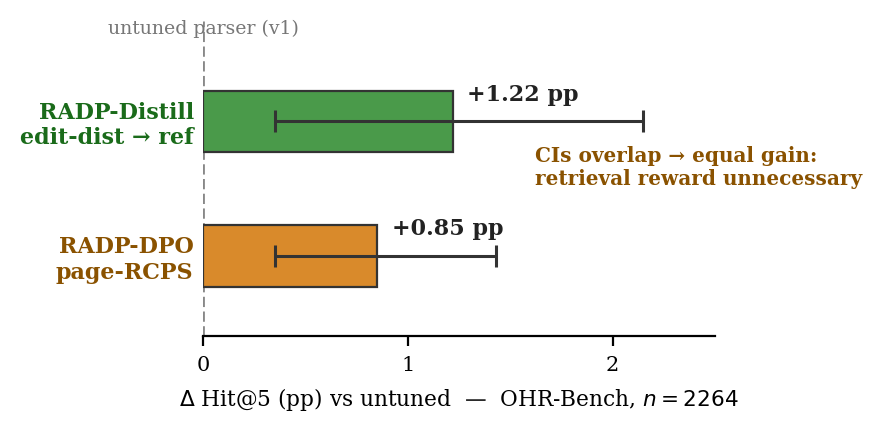
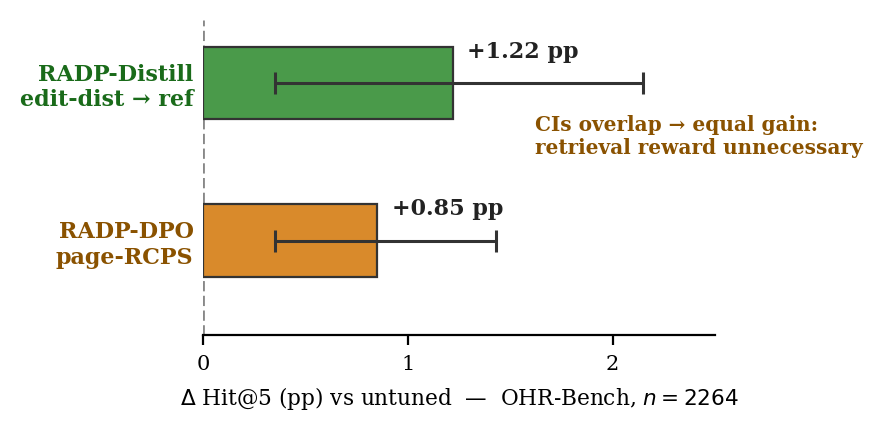
paper: fix orphan figure refs + define TextNED; drop 'v1' label from C4 fig
- ref Figure 2 (coverage) and Figure 5 (training) in body prose (were
  floating unreferenced)
- gloss TextNED at first body use (was defined only in Appendix C)
- generalise '(RADP-DPO)' -> 'discrete-output preference training' so the
  RADP-Distill headline is not undersold one paragraph later
- remove redundant 'untuned parser (v1)' label from fig_c4_training (x-axis
  already says 'vs untuned'; drops the anonymity-leaking v1); regenerate fig

diff --git a/paper/latex/main.tex b/paper/latex/main.tex
@@ -102,7 +102,7 @@ A single-domain anti-correlation could be a quirk of one language or document ty
 
 The aggregate cross-variant correlation is sensitive to the document mix: Pearson BC$\leftrightarrow$\rcps{} across all 15 variants is $-0.35$ on Law\,$+$\,Manual alone but $+0.25$ on the full seven-domain corpus. We therefore report the per-family mechanism, which reproduces in every domain, as the robust finding, and treat the cross-variant scalar---which conflates parser families of differing noise-robustness---as illustrative only.
 
-\paragraph{Locating the gap: parser or chunker? (Table~\ref{tab:coverage}).} The disconnect shows that intrinsic metrics mislead, but not which pipeline layer is at fault. Applying the \S\ref{sec:coverage} classification with no retriever, on Prod's output (294 pages, 663 Q--A) $20.2\%$ of answers are absent and at most $2.3\%$ are split, and the absent rate is constant across all eight chunkers we test---exactly the boundary-independence a parser fault must show. The gap is therefore a parser problem: roughly one answer in five is never produced, so no re-chunking can recover it, and a parser-side intervention is the correct lever. This both motivates the training in \S\ref{sec:c4} and yields the practitioner rule: run this diagnostic first, and if absent dominates, fix the parser; if split dominates, fix the chunker.
+\paragraph{Locating the gap: parser or chunker? (Figure~\ref{fig:coverage}, Table~\ref{tab:coverage}).} The disconnect shows that intrinsic metrics mislead, but not which pipeline layer is at fault. Applying the \S\ref{sec:coverage} classification with no retriever, on Prod's output (294 pages, 663 Q--A) $20.2\%$ of answers are absent and at most $2.3\%$ are split, and the absent rate is constant across all eight chunkers we test---exactly the boundary-independence a parser fault must show. The gap is therefore a parser problem: roughly one answer in five is never produced, so no re-chunking can recover it, and a parser-side intervention is the correct lever. This both motivates the training in \S\ref{sec:c4} and yields the practitioner rule: run this diagnostic first, and if absent dominates, fix the parser; if split dominates, fix the chunker.
 
 \begin{table}[t]
 \centering\small
@@ -156,9 +156,9 @@ full \rcps{} (3 retrievers, fmt-invariant) & 30B $\succ$ Prod & --- \\
 
 When the coverage diagnostic points to the parser (\S\ref{sec:c1c2}), we train it on a retrieval signal---a family we call Retrieval-Aware Document Parsing (RADP)---in two natural ways. \textbf{(a) Hidden-state auxiliary loss (RADP-aux):} an InfoNCE term aligns the parser's pooled answer-span hidden state with the frozen BGE-M3 embedding of the gold chunk ($\mathcal{L}_\text{total} = \mathcal{L}_\text{parse} + \lambda\,\mathcal{L}_\text{contrast}$); this differentiable surrogate reaches the deployed markdown only through $\mathcal{L}_\text{parse}$. \textbf{(b) Discrete-output DPO (RADP-DPO):} we optimise the markdown directly \citep{rafailov2023dpo}---sampling $K$ parses per page, scoring each by a page-local \rcps{}, forming preference pairs (gap $\ge 5$~pp), and training with a LoRA-toggle reference \citep{hu2021lora} ($\pi_\theta$ adapter-on, $\pi_\text{ref}$ adapter-off), the reward sharpened over three milestones R1$\rightarrow$R2$\rightarrow$R3 (Appendix~\ref{app:milestones}); reference-free SimPO \citep{meng2024simpo} is a control. \textbf{(c) Reward-agnostic control (RADP-Distill):} the identical best-of-K pipeline but ranking candidates by edit-distance to the reference markdown instead of \rcps{}.
 
-With one answer in five absent from the parser (\S\ref{sec:c1c2}), a parser-side fix is the right lever. Of these directions, only discrete-output preference training (RADP-DPO) produces a deployable effect---the hidden-state auxiliary loss is sub-threshold and reference-free SimPO is uniformly negative (Appendix~\ref{app:dpo}). On KoGov, RADP-DPO improves Hit@5 by $+1.96$ to $+2.11$~pp, but at $n = 663$ every two-sided interval spans zero, so we treat KoGov as exploratory and rely on the pre-specified OHR-Bench replication, where training signal, metric, and language are disjoint. There the representative variant R2 gives Hit@5 $+0.85$~pp $[+0.35, +1.43]$, two-sided significant across all seven domains (Table~\ref{tab:ohr}).
+With one answer in five absent from the parser (\S\ref{sec:c1c2}), a parser-side fix is the right lever. Of these directions, only discrete-output preference training produces a deployable effect---the hidden-state auxiliary loss is sub-threshold and reference-free SimPO is uniformly negative (Appendix~\ref{app:dpo}). On KoGov, RADP-DPO improves Hit@5 by $+1.96$ to $+2.11$~pp, but at $n = 663$ every two-sided interval spans zero, so we treat KoGov as exploratory and rely on the pre-specified OHR-Bench replication, where training signal, metric, and language are disjoint. There the representative variant R2 gives Hit@5 $+0.85$~pp $[+0.35, +1.43]$, two-sided significant across all seven domains (Table~\ref{tab:ohr}).
 
-\paragraph{The retrieval reward is unnecessary.} A matched RADP-Distill control---identical but ranking pairs by edit-distance to the reference markdown rather than \rcps{}---reproduces the gain (OHR Hit@5 $+1.22$~pp $[+0.35, +2.15]$; KoGov $+2.61$~pp), indistinguishable from RADP-DPO at the powered endpoint. The lever is therefore fidelity distillation, not the retrieval reward---a cheaper route to the same target.
+\paragraph{The retrieval reward is unnecessary.} A matched RADP-Distill control---identical but ranking pairs by edit-distance to the reference markdown rather than \rcps{}---reproduces the gain (OHR Hit@5 $+1.22$~pp $[+0.35, +2.15]$; KoGov $+2.61$~pp), indistinguishable from RADP-DPO at the powered endpoint (Figure~\ref{fig:training}). The lever is therefore fidelity distillation, not the retrieval reward---a cheaper route to the same target.
 
 \begin{figure}[t]
 \centering
@@ -167,7 +167,7 @@ With one answer in five absent from the parser (\S\ref{sec:c1c2}), a parser-side
 \label{fig:training}
 \end{figure}
 
-\paragraph{The mechanism is text fidelity, not chunk boundaries.} Across the 12 systems (Appendix~\ref{app:mechanism}, Table~\ref{tab:mechanism}), every DPO variant cuts TextNED from Prod's $0.240$ to $0.16$--$0.19$ and RADP-Distill cuts it furthest ($0.158$), while the MoC chunking signature (BC $0.60$--$0.66$, CS $\approx 0.47$) does not move; RADP-aux, which instead \emph{raises} TextNED, stays sub-threshold. The gain comes from \emph{what} is parsed, not \emph{how} it is chunked---\S\ref{sec:c1c2}'s intrinsic-metric blindness seen from the training side---and replicates cross-domain (English R2 TextNED $-1.36\%$, significant). RADP-DPO is thus best read as best-of-K self-distillation: training amortises into the weights the higher-fidelity parses the model could already occasionally produce.
+\paragraph{The mechanism is text fidelity, not chunk boundaries.} Across the 12 systems (Appendix~\ref{app:mechanism}, Table~\ref{tab:mechanism}), every DPO variant cuts TextNED (normalised edit distance to the reference markdown) from Prod's $0.240$ to $0.16$--$0.19$ and RADP-Distill cuts it furthest ($0.158$), while the MoC chunking signature (BC $0.60$--$0.66$, CS $\approx 0.47$) does not move; RADP-aux, which instead \emph{raises} TextNED, stays sub-threshold. The gain comes from \emph{what} is parsed, not \emph{how} it is chunked---\S\ref{sec:c1c2}'s intrinsic-metric blindness seen from the training side---and replicates cross-domain (English R2 TextNED $-1.36\%$, significant). RADP-DPO is thus best read as best-of-K self-distillation: training amortises into the weights the higher-fidelity parses the model could already occasionally produce.
 
 \section{Discussion and Conclusion}
 

diff --git a/scripts/figures/make_fig_c4_training.py b/scripts/figures/make_fig_c4_training.py
@@ -42,8 +42,6 @@ def main():
                 fontsize=8.0, fontweight="bold", color="#222222")
 
     ax.axvline(0, color="#888888", lw=1.0, ls="--", zorder=1)
-    ax.text(0, 1.62, "untuned parser (v1)", ha="center", va="bottom",
-            fontsize=6.8, color="#777777")
 
     # two-line y tick labels (name + ranking signal)
     ax.set_yticks(ys)
@@ -55,7 +53,7 @@ def main():
         tick.set_fontweight("bold")
 
     ax.set_xlim(0, 2.5)
-    ax.set_ylim(-0.6, 1.75)
+    ax.set_ylim(-0.6, 1.4)
     ax.set_xlabel("$\\Delta$ Hit@5 (pp) vs untuned  —  OHR-Bench, $n{=}2264$",
                   fontsize=7.8)
     ax.set_xticks([0, 1, 2])
